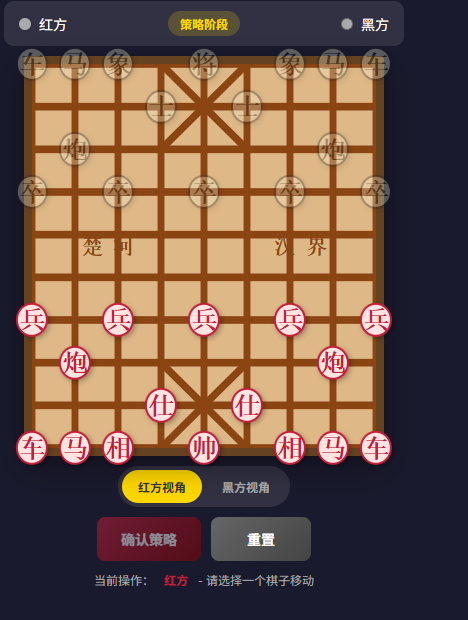
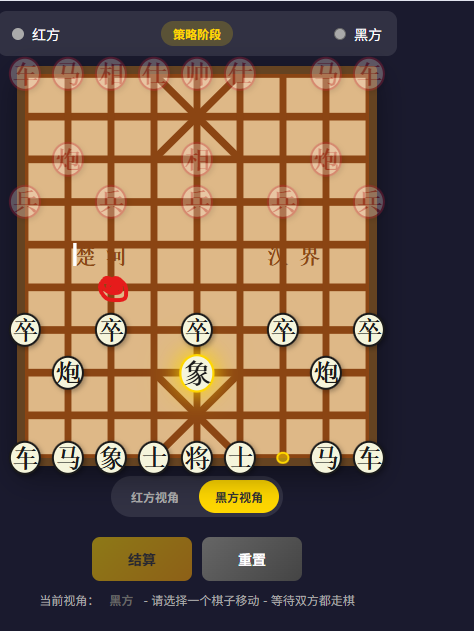
fix: 添加结算后将军提示和修复互吃逻辑

diff --git a/src/App.tsx b/src/App.tsx
@@ -108,7 +108,7 @@ function App() {
       newState.validMoves = [];
       return newState;
     });
-  }, [gameState.selectedPiece, gameState.phase, gameState.pieces, showMessage]);
+  }, [gameState.selectedPiece, gameState.phase, showMessage]);
 
   // 结算按钮
   const handleSettle = useCallback(() => {
@@ -150,41 +150,62 @@ function App() {
       // 延迟一下让用户看到结算动画
       await new Promise(resolve => setTimeout(resolve, 1000));
 
-      // 实际执行移动后的棋子状态
       let finalPieces = gameState.pieces.map(p => ({ ...p }));
+      const redMove = gameState.redPendingMove;
+      const blackMove = gameState.blackPendingMove;
       
-      // 执行红方移动
-      if (gameState.redPendingMove) {
-        // 先移除目标位置的棋子
-        finalPieces = finalPieces.filter(p => 
-          !(p.position[0] === gameState.redPendingMove!.to[0] &&
-            p.position[1] === gameState.redPendingMove!.to[1])
-        );
-        // 移动棋子
-        finalPieces = finalPieces.map(p => {
-          if (p.position[0] === gameState.redPendingMove!.from[0] &&
-              p.position[1] === gameState.redPendingMove!.from[1]) {
-            return { ...p, position: [...gameState.redPendingMove!.to] as Position };
-          }
-          return p;
-        });
-      }
+      // 检查是否互吃（双方同时向对方当前位置移动，擦肩而过）
+      // 例如：红兵在(4,4)，黑卒在(4,5)
+      // 红走(4,4)->(4,5)，黑走(4,5)->(4,4)
+      // 结果：红兵到(4,5)，黑卒到(4,4)（交换位置）
+      const isMutualCapture = redMove && blackMove && 
+        redMove.to[0] === blackMove.to[0] && 
+        redMove.to[1] === blackMove.to[1];
 
-      // 执行黑方移动
-      if (gameState.blackPendingMove) {
-        // 先移除目标位置的棋子
-        finalPieces = finalPieces.filter(p => 
-          !(p.position[0] === gameState.blackPendingMove!.to[0] &&
-            p.position[1] === gameState.blackPendingMove!.to[1])
-        );
-        // 移动棋子
+      if (isMutualCapture) {
+        // 互吃：双方交换位置（扑空）
+        // 只需要把两个棋子直接交换位置即可
         finalPieces = finalPieces.map(p => {
-          if (p.position[0] === gameState.blackPendingMove!.from[0] &&
-              p.position[1] === gameState.blackPendingMove!.from[1]) {
-            return { ...p, position: [...gameState.blackPendingMove!.to] as Position };
+          if (p.position[0] === redMove!.from[0] && p.position[1] === redMove!.from[1]) {
+            return { ...p, position: [...redMove!.to] as Position };
+          }
+          if (p.position[0] === blackMove!.from[0] && p.position[1] === blackMove!.from[1]) {
+            return { ...p, position: [...blackMove!.to] as Position };
           }
           return p;
         });
+      } else {
+        // 普通移动：先处理红方，再处理黑方
+        
+        // 执行红方移动
+        if (redMove) {
+          // 先移除目标位置的棋子
+          finalPieces = finalPieces.filter(p => 
+            !(p.position[0] === redMove.to[0] && p.position[1] === redMove.to[1])
+          );
+          // 移动棋子
+          finalPieces = finalPieces.map(p => {
+            if (p.position[0] === redMove.from[0] && p.position[1] === redMove.from[1]) {
+              return { ...p, position: [...redMove.to] as Position };
+            }
+            return p;
+          });
+        }
+
+        // 执行黑方移动
+        if (blackMove) {
+          // 先移除目标位置的棋子
+          finalPieces = finalPieces.filter(p => 
+            !(p.position[0] === blackMove.to[0] && p.position[1] === blackMove.to[1])
+          );
+          // 移动棋子
+          finalPieces = finalPieces.map(p => {
+            if (p.position[0] === blackMove.from[0] && p.position[1] === blackMove.from[1]) {
+              return { ...p, position: [...blackMove.to] as Position };
+            }
+            return p;
+          });
+        }
       }
 
       // 检查将帅面对面
@@ -210,14 +231,13 @@ function App() {
         }
       }
 
-      // 检查同归于尽（双方移动到同一位置）
-      if (!winner && gameState.redPendingMove && gameState.blackPendingMove) {
-        if (gameState.redPendingMove.to[0] === gameState.blackPendingMove.to[0] &&
-            gameState.redPendingMove.to[1] === gameState.blackPendingMove.to[1]) {
+      // 检查同归于尽（双方移动到同一位置，且不是互吃）
+      if (!winner && redMove && blackMove && !isMutualCapture) {
+        if (redMove.to[0] === blackMove.to[0] &&
+            redMove.to[1] === blackMove.to[1]) {
           // 移除在目标位置的棋子
           finalPieces = finalPieces.filter(
-            p => !(p.position[0] === gameState.redPendingMove!.to[0] &&
-                   p.position[1] === gameState.redPendingMove!.to[1])
+            p => !(p.position[0] === redMove.to[0] && p.position[1] === redMove.to[1])
           );
           
           // 检查是否有将帅被吃
@@ -241,6 +261,30 @@ function App() {
         }
       }
 
+      // 检查将军（在最终棋盘状态下）
+      let checkMessage = '';
+      if (!winner) {
+        if (isCheck('red', finalPieces)) {
+          checkMessage = '红帅被将军！';
+        }
+        if (isCheck('black', finalPieces)) {
+          if (checkMessage) {
+            checkMessage += ' 黑将被将军！';
+          } else {
+            checkMessage = '黑将被将军！';
+          }
+        }
+      }
+
+      // 构建消息
+      let finalMessage = '';
+      if (winner) {
+        const winnerText = winner === 'draw' ? '和棋！' : winner === 'red' ? '红方胜利！' : '黑方胜利！';
+        finalMessage = winnerText + (reason ? ' ' + reason : '');
+      } else if (checkMessage) {
+        finalMessage = checkMessage;
+      }
+
       setGameState(prev => ({
         ...prev,
         pieces: finalPieces,
@@ -260,9 +304,8 @@ function App() {
         blackPendingMove: null,
       }));
 
-      if (winner) {
-        const winnerText = winner === 'draw' ? '和棋！' : winner === 'red' ? '红方胜利！' : '黑方胜利！';
-        showMessage(winnerText + (reason ? ' ' + reason : ''), 3000);
+      if (finalMessage) {
+        showMessage(finalMessage, 3000);
       }
     };
 

diff --git a/src/chessLogic.ts b/src/chessLogic.ts
@@ -28,11 +28,12 @@ export const isInPalace = (col: number, row: number, side: Side): boolean => {
 };
 
 // 检查象是否过河（象不能过楚河汉界）
-// 红象在下方（row 7-9），不能过河到 row 5 及以下
-// 黑象在上方（row 0-2），不能过河到 row 4 及以上
+// 楚河汉界在 row 4-5 之间，是分隔双方的"灰色地带"
+// 红方区域：row 5-9（下方）
+// 黑方区域：row 0-4（上方，楚河汉界算黑方这边）
 export const isElephantCrossed = (row: number, side: Side): boolean => {
-  if (side === 'red') return row < 7; // 红方象不能离开下方区域
-  return row > 2; // 黑方象不能离开上方区域
+  if (side === 'red') return row < 5; // 红方象不能离开下方区域（不能过楚河汉界）
+  return row > 4; // 黑方象不能离开上方区域（不能过楚河汉界）
 };
 
 // 获取某位置上的棋子
